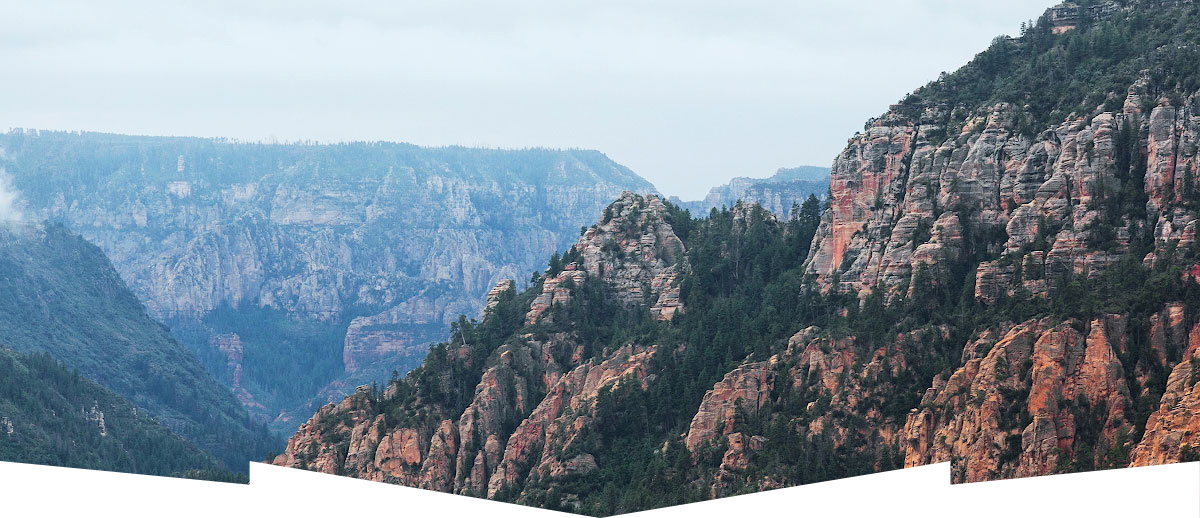
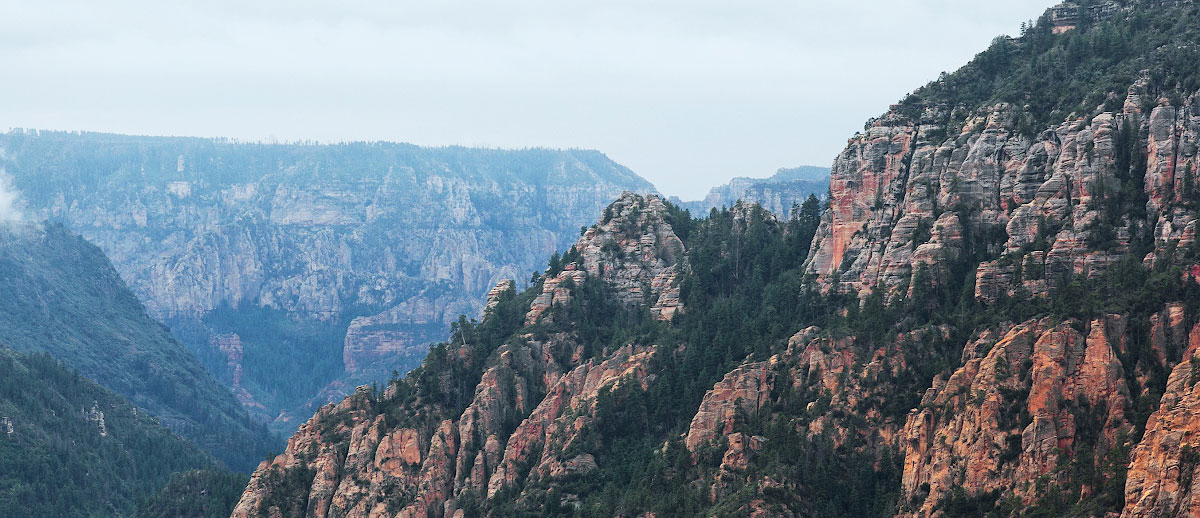
правки адаптивная графика главной

Changed region(s): [[0.0, 0.8649, 1.0, 1.0]]

diff --git a/source/less/blocks/intro.less b/source/less/blocks/intro.less
@@ -2,16 +2,18 @@
   min-height: 389px;
   margin: 0;
   background-color: @grey-intro;
-  background-image: url("../../img/intro-triangle.svg"), url("../../img/back-mobile.jpg");
+  background-image: url("../img/intro-triangle.svg"), url("../img/intro-mobile@1x.jpg");
   background-repeat: no-repeat;
   background-position: 50% bottom;
+  background-size: contain;
 }
 
 @media (min-resolution: 2dppx) {
-  background-image: url("../../img/back-mobile@2x.jpg"), url("../../img/intro-triangle.svg");
-  background-repeat: no-repeat;
-  background-position: 50% bottom;
-  background-size: cover;
+  .intro {
+    background-image: url("../img/intro-triangle.svg"), url("../img/back-mobile@2x.jpg");
+    background-repeat: no-repeat;
+    background-position: 50% bottom;
+  }
 }
 
 .intro__img-sedona {
@@ -32,15 +34,14 @@
   .intro {
     height: 518px;
     padding-top: 77px;
-    background-image: url("../../img/back-tablet.jpg");
-    // background-repeat: no-repeat;
-  }
-
-  @media (min-resolution: 2dppx) {
-    background-image: url("../../img/back-tablet@2x.jpg"), url("../../img/intro-triangle-tablet.svg");
+    background-image: url("../img/intro-triangle-tablet.svg"), url("../img/back-tablet.jpg");
     background-repeat: no-repeat;
     background-position: 50% bottom;
-    background-size: cover;
+    background-size: contain;
+
+    @media (min-resolution: 2dppx) {
+      background-image: url("../img/intro-triangle-tablet.svg"), url("../img/back-tablet@2x.jpg");
+    }
   }
 }
 
@@ -50,18 +51,13 @@
   }
 
   .intro {
-    background-image: url("../../img/intro-desktop@1x.jpg");
+    background-image: url("../img/intro-triangle-desktop.svg"), url("../img/intro-desktop@1x.jpg");
     background-repeat: no-repeat;
     background-position: 50% bottom;
-    background-size: cover;
-  }
+    background-size: contain;
 
-  @media (min-resolution: 2dppx) {
-    .intro {
-      background-image: url("../../img/intro-desktop@2x.jpg");
-      background-repeat: no-repeat;
-      background-position: 50% bottom;
-      background-size: cover;
+    @media (min-resolution: 2dppx) {
+      background-image: url("../img/intro-triangle-desktop.svg"), url("../img/intro-desktop@2x.jpg");
     }
   }
 }

diff --git a/source/index.html b/source/index.html
@@ -12,6 +12,15 @@
     <div class="page__body-wrapper">
     <header class="page-header">
     <nav class="main-nav main-nav--closed">
+      <div class="page-header__logo">
+        <a class="page-header__logo-link" href="index.html">
+          <picture>
+            <source media="(min-width: 1200px)" srcset="img/logotype-desktop.svg">
+            <source media="(min-width: 768px)" srcset="img/logotype-tablet.svg">
+            <img class="page-header__logo-img" src="img/logotype-mobile.svg" width="102" height="83" alt="Sedona">
+          </picture>
+        </a>
+      </div>
       <ul class="main-nav__list">
         <li class="main-nav__item">
           <a class="main-nav__item-link" href="index.html">
@@ -38,15 +47,6 @@
           <button class="main-nav__toggle main-nav__toggle--open" type="button"><span class="visually-hidden">Открыть меню</span></button>
       </div>
     </nav>
-      <div class="page-header__logo">
-        <a class="page-header__logo-link" href="index.html">
-          <picture>
-            <source media="(min-width: 1200px)" srcset="img/logotype-desktop.svg">
-            <source media="(min-width: 768px)" srcset="img/logotype-tablet.svg">
-            <img class="page-header__logo-img" src="img/logotype-mobile.svg" width="102" height="83" alt="Sedona">
-          </picture>
-        </a>
-      </div>
     <div class="page-intro intro">
       <img class="intro__img-sedona" src="img/text-index.svg" alt="Добро пожаловать в Седону" width="460" height="350">
     </div>

diff --git a/source/less/blocks/page-header.less b/source/less/blocks/page-header.less
@@ -1,5 +1,4 @@
 .page-header {
-  position: relative;
   margin: 0;
   padding: 0;
   background-color: @white;
@@ -7,7 +6,8 @@
 
 .page-header__logo {
   position: absolute;
-  top: 0%;
+  top: auto;
+  bottom: -58px;
   left: 34%;
   z-index: 2;
 }
